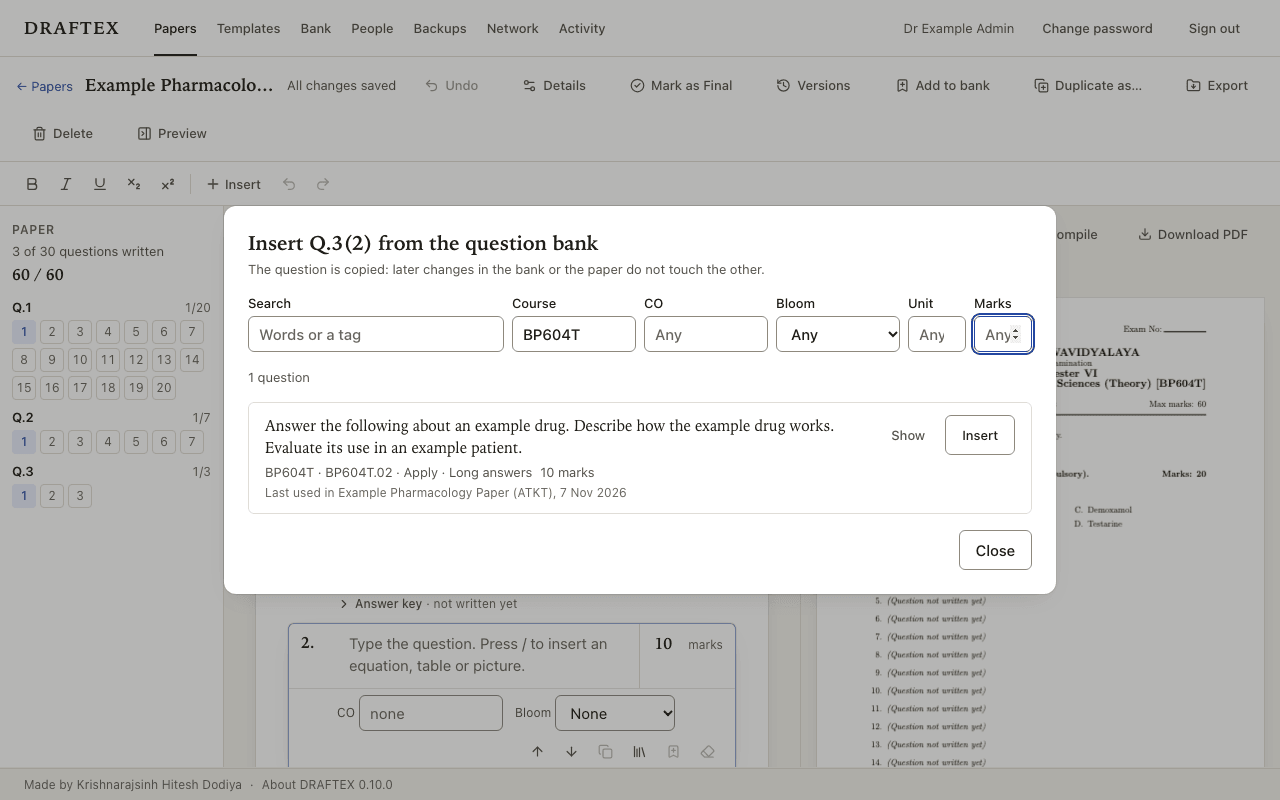
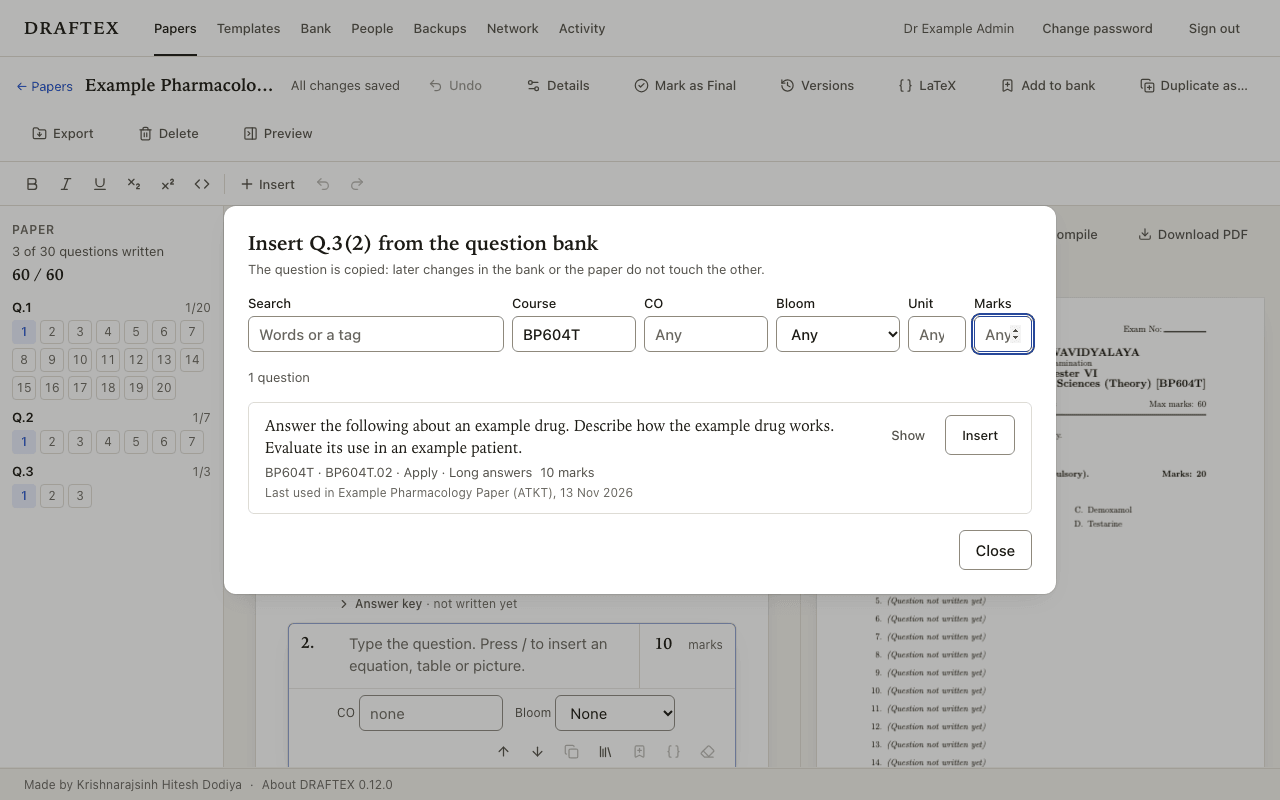
docs: guide and SPEC for code blocks, grouped Advanced LaTeX, View LaTeX
The guide gets a Code block section with a new screenshot (made by
scripts/guide-screenshots.ts as its last step; the others were taken
again and show the new toolbar and header buttons), drops the "wrap a
size command in braces" advice now that blocks are groups (D103), and
explains View LaTeX. SPEC §8, §10 gate 3 and §13 are amended as listed
in docs/ROADMAP-13-16.md.

diff --git a/scripts/guide-screenshots.ts b/scripts/guide-screenshots.ts
@@ -278,4 +278,31 @@ await page.getByText("Chemistry, colour and list commands").click();
 await shot(page, "18-advanced-latex");
 await page.getByRole("button", { name: "Done" }).click();
 
+// Phase 13: a code block with its line numbers, the check under it and the preview.
+await write("Q.2(5)", "What does this program print? Explain the ");
+await page.keyboard.type("`range`");
+await page.keyboard.type(" call.");
+await page.getByRole("button", { name: "Insert" }).click();
+await page.getByRole("menuitem", { name: "Code block" }).click();
+for (const [i, line] of [
+  "doses = [250, 500, 1000]",
+  "for d in doses:",
+  '\tprint(d / 1000, "g")',
+].entries()) {
+  if (i > 0) await page.keyboard.press("Enter");
+  if (line.startsWith("\t")) await page.keyboard.press("Tab");
+  await page.keyboard.type(line.replace(/^\t/, ""));
+}
+await page
+  .getByRole("status")
+  .filter({ hasText: "All changes saved" })
+  .waitFor({ timeout: 15_000 });
+await page.waitForTimeout(4_000);
+await page
+  .getByRole("img", { name: /page \d of/ })
+  .first()
+  .waitFor({ timeout: 90_000 });
+await page.getByRole("listitem", { name: "Q.2(5)", exact: true }).scrollIntoViewIfNeeded();
+await shot(page, "19-code-block");
+
 await browser.close();

diff --git a/docs/SPEC.md b/docs/SPEC.md
@@ -282,6 +282,14 @@ Built-ins can't be edited; "Save as new" is the way to change them.
   English ("Equation in Q.2(3) has an unmatched brace") with the raw log
   behind a disclosure.
 - MCQ answer: a radio on the choices sets the key automatically.
+- Code (Phase 13, D98-D104, amended 2026-11-13): a **Code block** (lines of
+  ASCII text, at most 40, each no longer than the frame allows on that paper
+  and nesting level; checked live in the editor and by the server) and
+  **inline code** (a mark), for every user. A question that starts with code
+  prints its number on its own line. Not in choices, table cells or the
+  objective key table. **View LaTeX** shows the generated LaTeX of the saved
+  paper, its key or one question, read-only with a copy button, to the
+  paper's owner only; generated LaTeX is never edited.
 
 ### TipTap → LaTeX serialiser (most error-prone component)
 - Pure, deterministic, unit-tested per node type; escapes `\ { } $ & # ^ _ % ~`
@@ -299,6 +307,16 @@ Built-ins can't be edited; "Save as new" is the way to change them.
   read with fixed grammars. tikz, pgfplots, tcolorbox and listings are not
   offered (they reach files through plain strings). Review and tests:
   `docs/SECURITY-REVIEW-PHASE12.md`.
+- Code blocks (Phase 13, D99): fancyvrb's `Verbatim` with fixed options
+  (`numbers=left, numbersep=4pt, frame=single, fontsize=\small,
+  samepage=true`), loaded only when used; nothing about the block comes from
+  the user but its lines, and a line holding `\end{Verbatim}` anywhere is
+  refused. Inline code is `\texttt{}` around escaped text. Review and tests:
+  `docs/SECURITY-REVIEW-PHASE13.md`.
+- Each Advanced LaTeX block is a group (D103): `\begingroup ... \par\endgroup`,
+  with the question's tail inside the group when the block ends the
+  question; before display maths and in a table cell the group closes
+  without `\par`.
 - Output must reproduce the reference template's structure (single
   `questions` environment, `\dxGroupHead`, `\dxQOffset`).
 
@@ -330,7 +348,11 @@ A phase is **done** only when every gate below that applies is green locally
    `src/lib/auth/**`; 100% branch coverage for the PCI checker.
 3. **Golden compile tests**: every seed template + fixture papers compile with
    Tectonic with **zero LaTeX errors and zero warnings** (overfull boxes
-   > 1 pt count as failures).
+   > 1 pt count as failures). Code lines are the exception that no warning
+   can catch: fancyvrb lets a long line run past its frame silently, so the
+   generator enforces the line width (from class size, text width, body size
+   and nesting) and a golden test measures the longest allowed line against
+   its frame in the engine (amended 2026-11-13, D100).
 4. **Visual regression**: render generated PDFs to PNG (pdf.js or pdftoppm),
    compare to committed baselines with pixelmatch; >0.5% changed pixels =
    fail. A baseline only changes in a commit whose message says why.
@@ -425,6 +447,10 @@ GitHub → **stop and report to the owner**.
 | 10 | **Bloom and CO on the printed paper** (D53): WP-C in `docs/ROADMAP-9-12.md` | WP-C done; tag v0.10.0 |
 | 11 | **Question bank + CSV import** (D53): WP-D and WP-E in `docs/ROADMAP-9-12.md` | WP-D and WP-E done; tag v0.11.0 |
 | 12 | **Advanced LaTeX packages** (D53): WP-F in `docs/ROADMAP-9-12.md`, security review approved first | WP-F done; tag v0.12.0 |
+| 13 | **Code blocks, grouped Advanced LaTeX, View LaTeX** (amended 2026-11-13, D98-D104): `docs/ROADMAP-13-16.md`, security review `docs/SECURITY-REVIEW-PHASE13.md` first | A, B and D104 done; tag v0.13.0 |
+| 14 | **Table builder** (D105-D107): `docs/ROADMAP-13-16.md` | C done; tag v0.14.0 |
+| 15 | **CO blueprint check** (D108-D111): `docs/ROADMAP-13-16.md` | D done; tag v0.15.0 |
+| 16 | **Bank search, pages, near-duplicates** (D112-D115): `docs/ROADMAP-13-16.md` | E done; tag v0.16.0 |
 
 Installer requirements (Node and its install route superseded by D43 in
 `memory.md`: portable Node 24 archive, no winget or Homebrew): check/install Node 22 LTS (winget on Windows,

diff --git a/docs/USER_GUIDE.md b/docs/USER_GUIDE.md
@@ -189,9 +189,44 @@ says why. It also offers these, and loads them for the paper by itself:
   prints "Rs.").
 
 Pictures, including structures drawn in CorelDRAW, go in the **Picture**
-block. TikZ drawings, pgfplots graphs and program listings are not available.
-A size command such as `\large` in Advanced LaTeX also changes the questions
-after it, so wrap it in braces: `{\large text}`.
+block. TikZ drawings, pgfplots graphs and program listings are not available;
+for program code use a **Code block** (below). A size command such as
+`\large` changes only its own Advanced LaTeX block; the question's marks and
+the questions after it print at their normal size.
+
+**Code block** (Insert, or `/code`) holds program code, such as Python for
+a programming paper. Anyone can use it; it needs no permission.
+
+![A code block with its line numbers, and the check under it](user-guide/19-code-block.png)
+
+- Type or paste the code. Each line keeps its spaces, and the paper prints
+  the lines numbered inside a frame, in a typewriter font. **Tab** indents
+  by four spaces. To leave the block, press **Ctrl+Enter** (Mac: Cmd+Enter),
+  press **Enter** three times at the end, or press the down arrow on its
+  last line.
+- The line under the block says how many characters fit on one line of this
+  paper, for example "longest 22 of 73 characters"; the dashed line in the
+  block shows where the frame ends. A longer line, or more than 40 lines,
+  is marked in red until you shorten it, because LaTeX would let it run past
+  the frame without any warning. Inside a sub-part a line fits a few
+  characters fewer.
+- Code is plain English keyboard characters (ASCII). Curly quotes, long
+  dashes and non-breaking spaces copied from Word turn into straight quotes,
+  hyphens and spaces by themselves, and the line under the block says so.
+  Other characters, such as é or ₹, are refused.
+- A line holding `\end{Verbatim}` is refused: it would end the code block.
+- If a question starts with a code block, its number prints on a line of its
+  own above the code.
+- **Inline code** (the `<>` button, **Ctrl+E** (Mac: Cmd+E), or text between backticks
+  such as `` `len` ``) prints a word or two of code inside a sentence in the
+  same typewriter font.
+- A model answer may hold a code block too, except for multiple-choice
+  groups, whose key is one table.
+
+**LaTeX** at the top of the paper, and the `{}` button under each question,
+show the LaTeX DRAFTEX writes for the saved paper or question, with a
+**Copy** button and a switch to the answer key. It is for reading and
+copying only: change the question in the editor and the LaTeX follows.
 
 "**All changes saved**" at the top means everything is stored. If DRAFTEX
 finds a problem (for example a question that cannot be printed), the question
